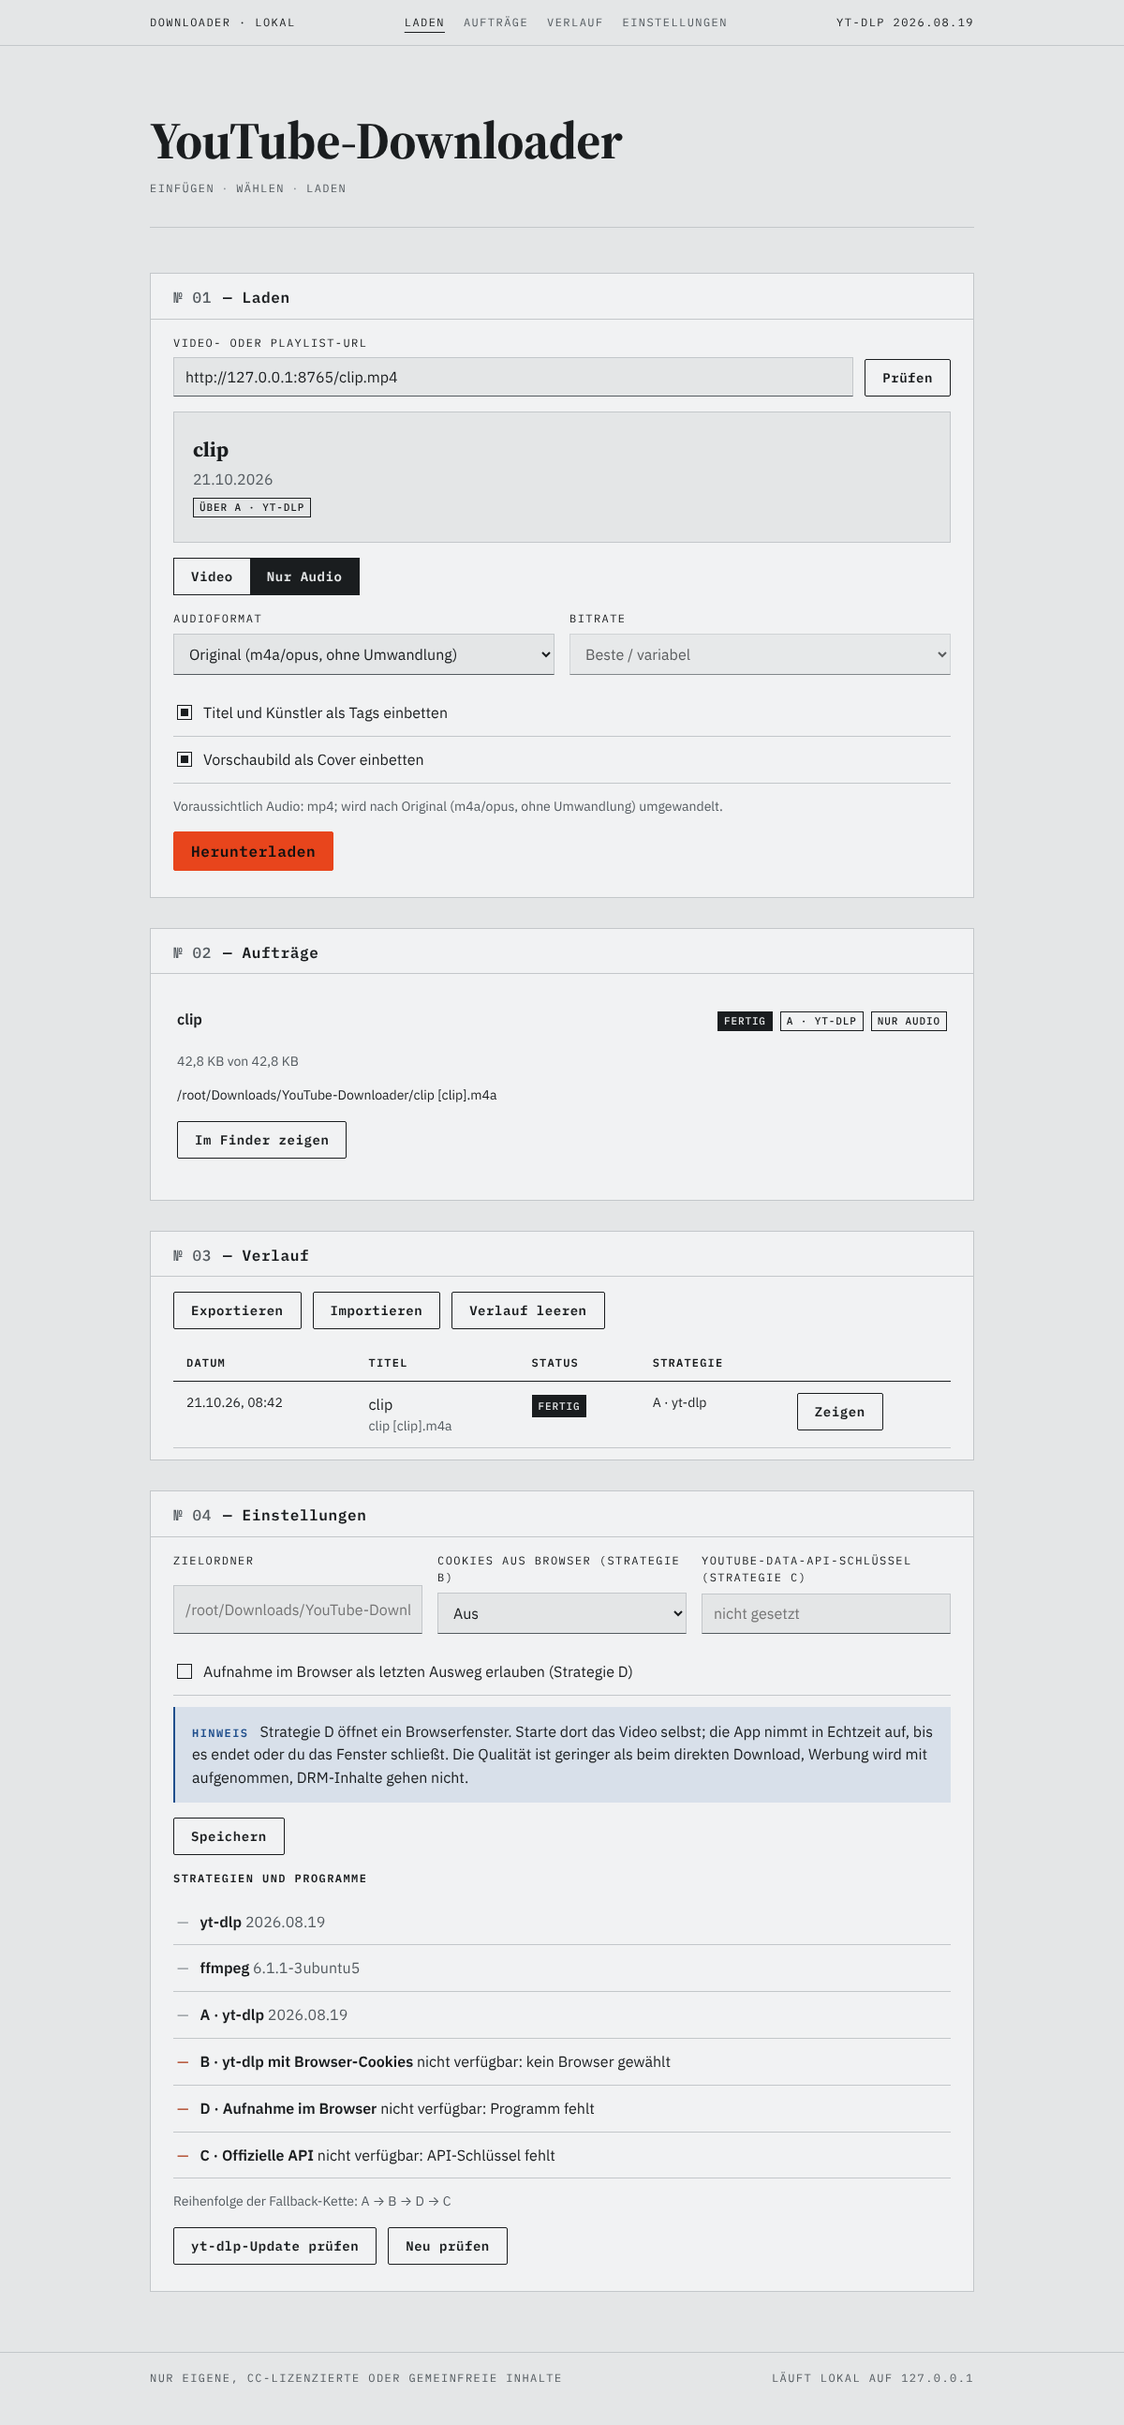
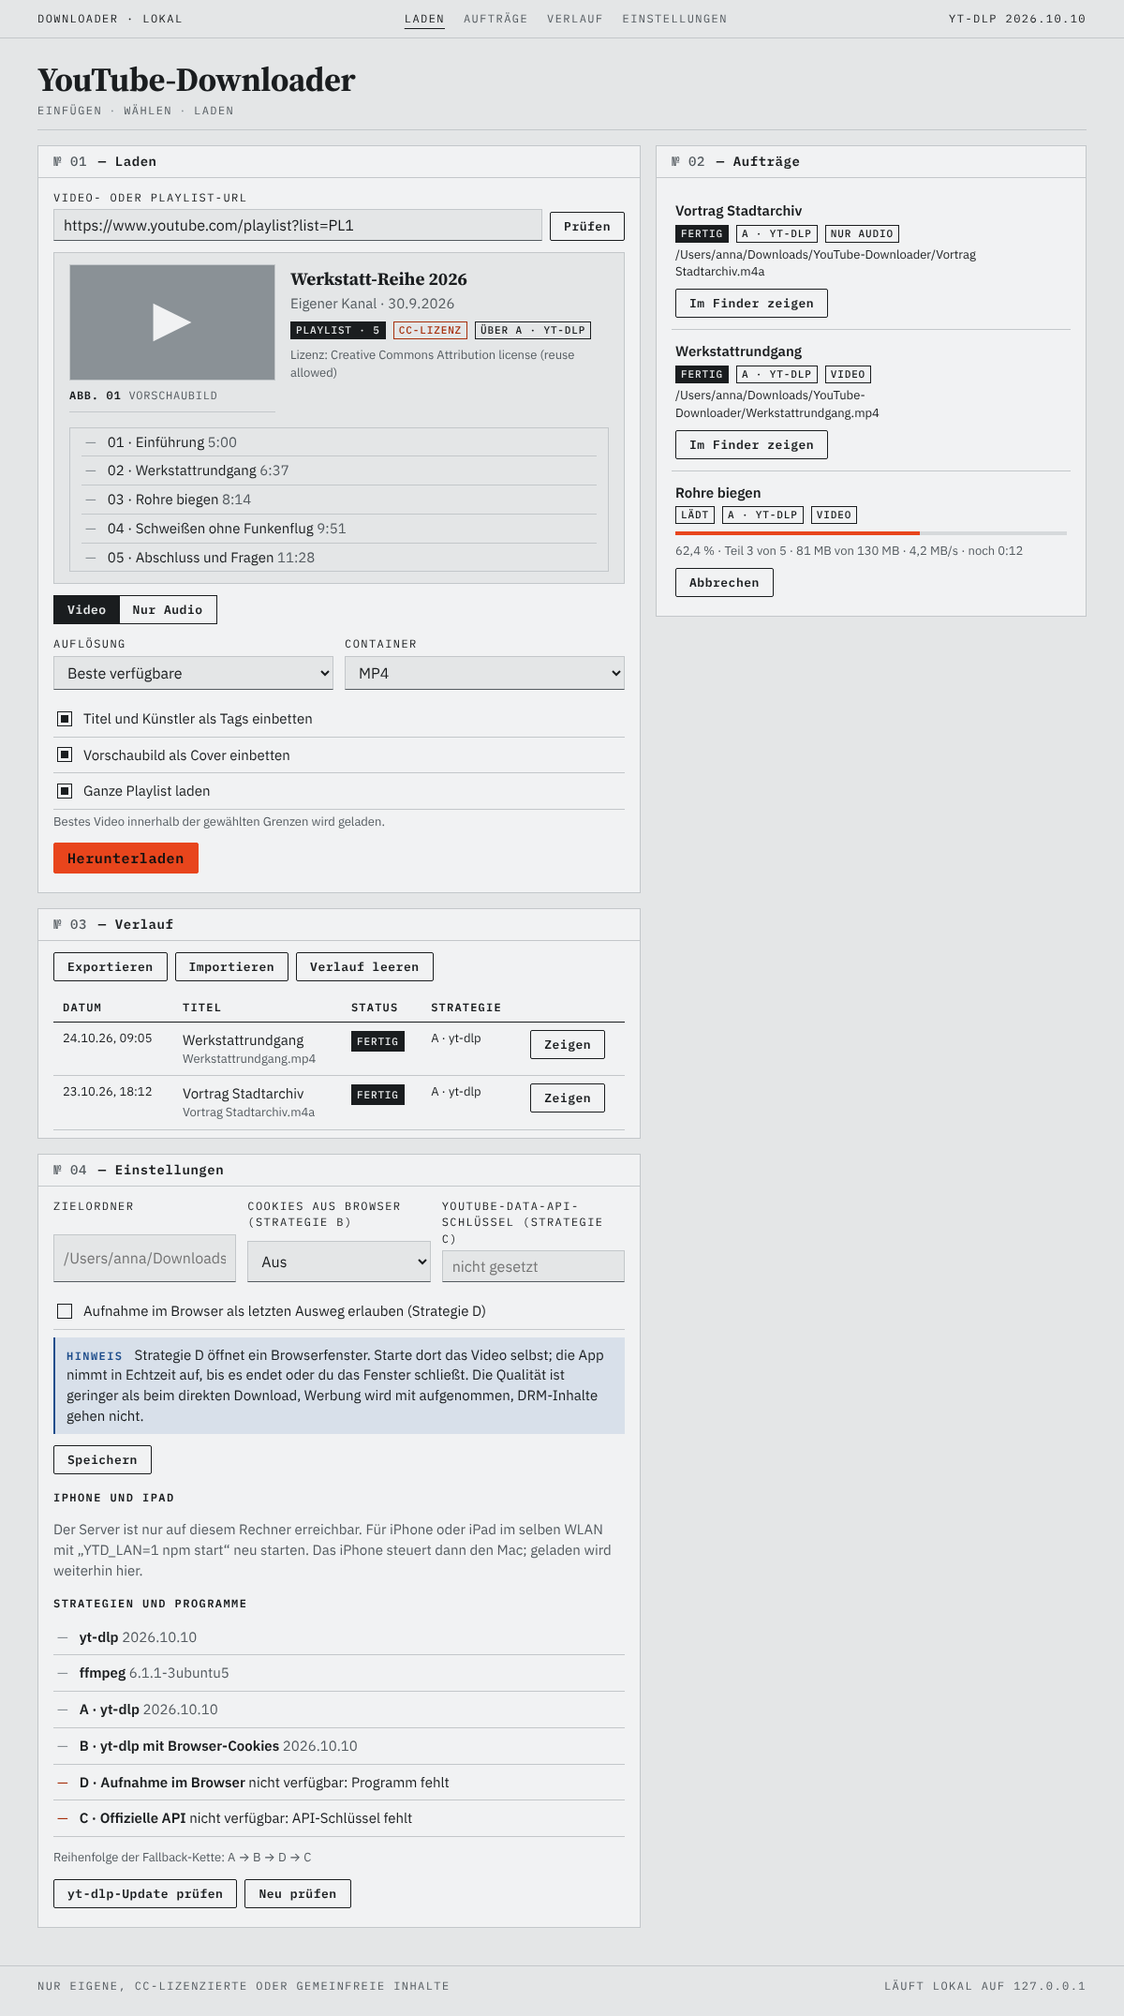
DU-Rohr-Lader-1.1.1: kompaktere Ansicht
Engere Abstände, dichtere Zeilen und Kästen auf Desktop und iPhone,
kleinerer Kopf; Touch-Ziele bleiben 44 pt. Screenshots erneuert.

Claude-Session: https://claude.ai/code/session_01JSgUaJYNFvwDmmGS4aEucJ

diff --git a/web/styles.css b/web/styles.css
@@ -24,7 +24,7 @@
 
 * { box-sizing:border-box; }
 html { background:var(--bg); }
-body { margin:0; background:var(--bg); color:var(--ink); font:16px/1.55 var(--sans); -webkit-font-smoothing:antialiased; }
+body { margin:0; background:var(--bg); color:var(--ink); font:15px/1.45 var(--sans); -webkit-font-smoothing:antialiased; }
 .wrap { max-width:var(--maxw); margin:0 auto; padding:0 var(--gutter); }
 a { color:var(--ink); text-decoration-color:var(--accent); text-decoration-thickness:2px; text-underline-offset:3px; }
 a:hover { color:var(--accent-text); }
@@ -33,24 +33,24 @@ a:hover { color:var(--accent-text); }
 code { font:14px var(--mono); background:var(--sunken); padding:1px 5px; }
 
 .runhead { position:sticky; top:0; z-index:10; background:var(--bg); border-bottom:1px solid var(--line); }
-.runhead .wrap { display:flex; justify-content:space-between; align-items:center; gap:var(--s4); min-height:48px; }
+.runhead .wrap { display:flex; justify-content:space-between; align-items:center; gap:var(--s4); min-height:40px; }
 .runhead nav { display:flex; gap:20px; flex-wrap:wrap; }
 .runhead nav a { text-decoration:none; }
 .runhead nav a { color:var(--muted); }
 .runhead nav a:hover, .runhead nav a[aria-current] { color:var(--ink); }
 .runhead nav a[aria-current] { text-decoration:underline; text-decoration-color:var(--ink); text-decoration-thickness:1px; text-underline-offset:6px; }
 
-.hero { padding:72px 0 0; }
-.hero h1 { font:700 clamp(34px,5.5vw,56px)/1.05 var(--serif); letter-spacing:-.015em; margin:0; }
-.hero .subtitle { margin:var(--s3) 0 0; color:var(--muted); }
+.hero { padding:var(--s5) 0 0; }
+.hero h1 { font:700 clamp(26px,3.6vw,36px)/1.1 var(--serif); letter-spacing:-.015em; margin:0; }
+.hero .subtitle { margin:var(--s1) 0 0; color:var(--muted); }
 .hero .subtitle .sep { color:var(--faint); padding:0 .6em; }
-.rule-heavy { border:0; border-top:1px solid var(--line); margin:var(--s6) 0 var(--s7); }
+.rule-heavy { border:0; border-top:1px solid var(--line); margin:var(--s3) 0 var(--s4); }
 
-.section { background:var(--surface); border:1px solid var(--line); padding:0 var(--s5) var(--s3); margin:0 0 var(--s6); scroll-margin-top:64px; }
-.label { display:flex; gap:var(--s3); align-items:baseline; font:600 16px/1.2 var(--mono); letter-spacing:.04em; color:var(--ink); margin:0 calc(-1 * var(--s5)) var(--s4); padding:var(--s4) var(--s5) var(--s3); border-bottom:1px solid var(--line); }
+.section { background:var(--surface); border:1px solid var(--line); padding:0 var(--s4) var(--s2); margin:0 0 var(--s4); scroll-margin-top:52px; }
+.label { display:flex; gap:var(--s3); align-items:baseline; font:600 14px/1.2 var(--mono); letter-spacing:.04em; color:var(--ink); margin:0 calc(-1 * var(--s4)) var(--s3); padding:var(--s2) var(--s4); border-bottom:1px solid var(--line); }
 .label .no { color:var(--muted); font-weight:500; }
 
-.row, .check { display:flex; gap:var(--s3); align-items:baseline; padding:var(--s3) var(--s1); border-bottom:1px solid var(--line); }
+.row, .check { display:flex; gap:var(--s3); align-items:baseline; padding:var(--s2) var(--s1); border-bottom:1px solid var(--line); }
 .row:last-child, .check:last-child { border-bottom:0; }
 .row::before { content:"—"; color:var(--faint); flex:none; }
 .row.prio::before { color:var(--accent-text); }
@@ -59,11 +59,11 @@ code { font:14px var(--mono); background:var(--sunken); padding:1px 5px; }
 .check input { appearance:none; flex:none; width:16px; height:16px; margin:0; border:1.5px solid var(--ink); background:var(--surface); border-radius:0; cursor:pointer; }
 .check input:checked { background:var(--ink); box-shadow:inset 0 0 0 3px var(--surface); }
 
-.tag { font:500 11px/1 var(--mono); letter-spacing:.08em; text-transform:uppercase; border:1px solid var(--ink); padding:4px 6px; white-space:nowrap; }
+.tag { font:500 11px/1 var(--mono); letter-spacing:.08em; text-transform:uppercase; border:1px solid var(--ink); padding:3px 5px; white-space:nowrap; }
 .tag.acc { border-color:var(--accent-text); color:var(--accent-text); }
 .tag.inv { background:var(--ink); color:var(--bg); }
 
-.note { border-left:2px solid var(--accent); background:var(--accent-tint); padding:14px 18px; margin:var(--s3) 0 var(--s4); }
+.note { border-left:2px solid var(--accent); background:var(--accent-tint); padding:var(--s2) var(--s3); margin:var(--s2) 0 var(--s3); }
 .note .cap { color:var(--accent-text); font-weight:600; margin-right:var(--s3); }
 .note.ok { border-color:var(--ok); background:var(--ok-tint); } .note.ok .cap { color:var(--ok); }
 .note.warn { border-color:var(--warn); background:var(--warn-tint); } .note.warn .cap { color:var(--warn); }
@@ -73,23 +73,23 @@ code { font:14px var(--mono); background:var(--sunken); padding:1px 5px; }
 .table-scroll { overflow-x:auto; }
 table.data { width:100%; border-collapse:collapse; background:var(--surface); }
 .section table.data th { border-bottom-width:1px; }
-table.data th { text-align:left; font:600 12px var(--mono); letter-spacing:.1em; text-transform:uppercase; border-bottom:2px solid var(--ink); padding:var(--s3) 14px; }
-table.data td { border-bottom:1px solid var(--line); padding:var(--s3) 14px; vertical-align:top; }
+table.data th { text-align:left; font:600 12px var(--mono); letter-spacing:.1em; text-transform:uppercase; border-bottom:2px solid var(--ink); padding:var(--s2) 10px; }
+table.data td { border-bottom:1px solid var(--line); padding:var(--s2) 10px; vertical-align:top; }
 table.data tbody tr:hover { background:var(--sunken); }
 
 .grid { display:grid; gap:var(--s4); grid-template-columns:repeat(auto-fit,minmax(200px,1fr)); }
-.card { background:var(--bg); border:1px solid var(--line); padding:18px 20px; }
-.card h3 { font:700 22px/1.2 var(--serif); margin:var(--s2) 0 6px; }
+.card { background:var(--bg); border:1px solid var(--line); padding:var(--s3) var(--s4); }
+.card h3 { font:700 19px/1.2 var(--serif); margin:var(--s1) 0 var(--s1); }
 .card p { margin:0; color:var(--muted); }
 
 
-.btn { display:inline-flex; align-items:center; gap:var(--s2); font:600 14px/1 var(--mono); letter-spacing:.04em; padding:var(--s3) 18px; border:1px solid var(--ink); background:transparent; color:var(--ink); cursor:pointer; text-decoration:none; border-radius:var(--r); }
+.btn { display:inline-flex; align-items:center; gap:var(--s2); font:600 13px/1 var(--mono); letter-spacing:.04em; padding:var(--s2) 14px; border:1px solid var(--ink); background:transparent; color:var(--ink); cursor:pointer; text-decoration:none; border-radius:var(--r); }
 .btn:hover { background:var(--ink); color:var(--bg); }
-.btn.primary { font-size:16px; background:var(--accent); border-color:var(--accent); color:var(--accent-ink); }
+.btn.primary { font-size:15px; background:var(--accent); border-color:var(--accent); color:var(--accent-ink); }
 .btn.primary:hover { background:var(--accent-hover); border-color:var(--accent-hover); color:var(--accent-ink); }
 .btn:disabled { opacity:.5; cursor:not-allowed; }
-.field { display:grid; gap:6px; }
-.field input, .field select { font:16px var(--sans); padding:10px var(--s3); background:var(--bg); color:var(--ink); border:1px solid var(--line); border-bottom:1px solid var(--muted); border-radius:0; min-width:0; width:100%; }
+.field { display:grid; gap:var(--s1); }
+.field input, .field select { font:16px var(--sans); padding:6px 10px; background:var(--bg); color:var(--ink); border:1px solid var(--line); border-bottom:1px solid var(--muted); border-radius:0; min-width:0; width:100%; }
 .field input:focus, .field select:focus { outline:none; border-color:var(--ink); box-shadow:inset 0 -1px 0 var(--accent); }
 
 figure { margin:0 0 var(--s4); }
@@ -100,45 +100,50 @@ pre { margin:var(--s4) 0; padding:var(--s4); background:var(--sunken); border:1p
 
 details { border-bottom:1px solid var(--line); }
 details:first-of-type { border-top:1px solid var(--line); }
-summary { list-style:none; cursor:pointer; display:flex; justify-content:space-between; gap:var(--s4); align-items:center; font:600 13px/1.3 var(--mono); letter-spacing:.08em; text-transform:uppercase; padding:14px var(--s1); }
+summary { list-style:none; cursor:pointer; display:flex; justify-content:space-between; gap:var(--s4); align-items:center; font:600 13px/1.3 var(--mono); letter-spacing:.08em; text-transform:uppercase; padding:var(--s2) var(--s1); }
 summary::-webkit-details-marker { display:none; }
 summary::after { content:"+"; font-size:20px; color:var(--accent-text); }
 details[open] summary::after { content:"−"; }
 summary:hover { background:var(--sunken); }
 details > div { padding:0 var(--s1) var(--s4); color:var(--muted); }
 
-footer { border-top:1px solid var(--line); margin-top:var(--s8); padding:18px 0 40px; color:var(--muted); }
+footer { border-top:1px solid var(--line); margin-top:var(--s5); padding:var(--s3) 0 var(--s5); color:var(--muted); }
 footer .wrap { display:flex; justify-content:space-between; flex-wrap:wrap; gap:var(--s3); }
 
-@media (max-width:600px) { .runhead nav { display:none; } .hero { padding-top:48px; } .section { padding:0 var(--s4) var(--s2); } .label { margin:0 calc(-1 * var(--s4)) var(--s4); padding:var(--s3) var(--s4); } }
+@media (max-width:600px) { .runhead nav { display:none; } .hero { padding-top:var(--s4); } .section { padding:0 var(--s3) var(--s2); } .label { margin:0 calc(-1 * var(--s3)) var(--s3); padding:var(--s2) var(--s3); } }
 
 /* ---------- App-Ergänzungen (aus vorhandenen Bausteinen abgeleitet) ---------- */
-#meta { margin-top:var(--s4); }
-#options { margin-top:var(--s4); }
-.url-form { display:grid; grid-template-columns:1fr auto; gap:var(--s3); align-items:end; }
-.form-grid { display:grid; gap:var(--s4); grid-template-columns:repeat(auto-fit,minmax(200px,1fr)); margin:var(--s4) 0; }
-.actions { display:flex; flex-wrap:wrap; gap:var(--s3); align-items:center; margin:var(--s4) 0; }
-.meta-layout { display:grid; grid-template-columns:minmax(0,280px) 1fr; gap:var(--s5); }
+#meta { margin-top:var(--s3); }
+#options { margin-top:var(--s3); }
+.url-form { display:grid; grid-template-columns:1fr auto; gap:var(--s2); align-items:end; }
+.form-grid { display:grid; gap:var(--s3); grid-template-columns:repeat(auto-fit,minmax(180px,1fr)); margin:var(--s3) 0; }
+.actions { display:flex; flex-wrap:wrap; gap:var(--s2); align-items:center; margin:var(--s3) 0; }
+.meta-layout { display:grid; grid-template-columns:minmax(0,220px) 1fr; gap:var(--s4); }
 .meta-tags { display:flex; flex-wrap:wrap; gap:var(--s2); margin:var(--s2) 0; }
 .muted { color:var(--muted); }
-.small { font-size:14px; }
+.section h3.cap { margin:var(--s4) 0 var(--s2); }
+.small { font-size:13px; }
 .break { overflow-wrap:anywhere; }
 .mode-switch { display:flex; border:1px solid var(--ink); width:max-content; }
-.mode-switch button { font:600 14px/1 var(--mono); letter-spacing:.04em; padding:var(--s3) 18px; background:transparent; color:var(--ink); border:0; cursor:pointer; }
+.mode-switch button { font:600 13px/1 var(--mono); letter-spacing:.04em; padding:var(--s2) 14px; background:transparent; color:var(--ink); border:0; cursor:pointer; }
 .mode-switch button[aria-pressed="true"] { background:var(--ink); color:var(--bg); }
 .progress { height:4px; background:var(--sunken); margin:var(--s2) 0; }
 .progress > span { display:block; height:100%; background:var(--accent); width:0; transition:width .3s; }
 .progress.indeterminate > span { width:30%; animation:slide 1.2s linear infinite; }
 @keyframes slide { from { margin-left:-30%; } to { margin-left:100%; } }
 @media (prefers-reduced-motion: reduce) { .progress.indeterminate > span { animation:none; width:100%; opacity:.4; } }
-.job { border-bottom:1px solid var(--line); padding:var(--s4) var(--s1); }
+.job { border-bottom:1px solid var(--line); padding:var(--s3) var(--s1); }
 .job:last-child { border-bottom:0; }
-.job-head { display:flex; justify-content:space-between; gap:var(--s3); flex-wrap:wrap; align-items:baseline; }
+.job p, #preview { margin:var(--s1) 0; }
+.job .actions { margin:var(--s2) 0 0; }
+.entries .row { padding:var(--s1); }
+.job-head { display:flex; justify-content:space-between; gap:var(--s1) var(--s3); flex-wrap:wrap; align-items:baseline; }
+.job-head .meta-tags { margin:0; }
 .job-title { font-weight:600; overflow-wrap:anywhere; }
-.entries { max-height:260px; overflow:auto; background:var(--bg); border:1px solid var(--line); padding:0 var(--s3); }
-dialog { border:1px solid var(--line); background:var(--surface); color:var(--ink); max-width:min(560px, calc(100vw - 32px)); padding:var(--s5); }
+.entries { max-height:220px; overflow:auto; background:var(--bg); border:1px solid var(--line); padding:0 var(--s3); }
+dialog { border:1px solid var(--line); background:var(--surface); color:var(--ink); max-width:min(560px, calc(100vw - 32px)); padding:var(--s4); }
 dialog::backdrop { background:rgb(22 24 26 / .6); }
-dialog h2 { font:700 28px/1.2 var(--serif); margin:0 0 var(--s3); }
-.empty { color:var(--muted); padding:var(--s3) var(--s1); }
+dialog h2 { font:700 24px/1.2 var(--serif); margin:0 0 var(--s2); }
+.empty { color:var(--muted); padding:var(--s2) var(--s1); margin:0; }
 [hidden] { display:none !important; }
 @media (max-width:600px) { .url-form, .meta-layout { grid-template-columns:1fr; } }

diff --git a/web/layout.css b/web/layout.css
@@ -7,11 +7,11 @@ body { -webkit-tap-highlight-color:transparent; }
 /* ---------- iOS: Notch, Dynamic Island und Home-Indikator ---------- */
 .wrap { padding-left:max(var(--gutter), env(safe-area-inset-left)); padding-right:max(var(--gutter), env(safe-area-inset-right)); }
 .runhead { padding-top:env(safe-area-inset-top); }
-footer { padding-bottom:calc(40px + env(safe-area-inset-bottom)); }
+footer { padding-bottom:calc(var(--s5) + env(safe-area-inset-bottom)); }
 
 /* ---------- Kopplung iPhone (QR-Code) ---------- */
-.pairing { display:grid; grid-template-columns:minmax(140px,200px) 1fr; gap:var(--s5); align-items:start; margin:var(--s3) 0 var(--s4); }
-.pairing p { margin:0 0 var(--s3); }
+.pairing { display:grid; grid-template-columns:minmax(120px,160px) 1fr; gap:var(--s4); align-items:start; margin:var(--s2) 0 var(--s3); }
+.pairing p { margin:0 0 var(--s2); }
 .qr svg { display:block; width:100%; height:auto; border:1px solid var(--line); }
 
 body.dropping #laden { outline:2px dashed var(--accent); outline-offset:4px; }
@@ -21,7 +21,7 @@ body.dropping #laden { outline:2px dashed var(--accent); outline-offset:4px; }
   :root { --maxw-wide:1360px; }
   .runhead .wrap, main.wrap, footer .wrap { max-width:var(--maxw-wide); }
   main.wrap {
-    display:grid; align-items:start; column-gap:var(--s6);
+    display:grid; align-items:start; column-gap:var(--s4);
     grid-template-columns:minmax(0,7fr) minmax(340px,5fr);
     grid-template-areas:"hero hero" "rule rule" "note note" "laden jobs" "verlauf jobs" "einstellungen jobs";
   }
@@ -29,10 +29,10 @@ body.dropping #laden { outline:2px dashed var(--accent); outline-offset:4px; }
   main > .rule-heavy { grid-area:rule; }
   main > #global-note { grid-area:note; }
   main > #laden { grid-area:laden; }
-  main > #auftraege { grid-area:jobs; position:sticky; top:calc(64px + env(safe-area-inset-top)); max-height:calc(100vh - 88px); overflow:auto; overscroll-behavior:contain; }
+  main > #auftraege { grid-area:jobs; position:sticky; top:calc(52px + env(safe-area-inset-top)); max-height:calc(100vh - 68px); overflow:auto; overscroll-behavior:contain; }
   main > #verlauf { grid-area:verlauf; }
   main > #einstellungen { grid-area:einstellungen; }
-  #auftraege .job-head { flex-direction:column; gap:var(--s2); }
+  #auftraege .job-head { flex-direction:column; gap:var(--s1); }
 }
 
 /* ---------- Telefon: Abschnitte als Tab-Leiste unten, Daumen-Bedienung ---------- */
@@ -42,20 +42,20 @@ body.dropping #laden { outline:2px dashed var(--accent); outline-offset:4px; }
     background:var(--surface); border-top:1px solid var(--line);
     padding:0 env(safe-area-inset-right) env(safe-area-inset-bottom) env(safe-area-inset-left);
   }
-  .runhead nav a { flex:1 1 0; min-width:0; display:flex; align-items:center; justify-content:center; min-height:52px; font-size:10px; letter-spacing:.04em; text-underline-offset:4px; }
-  body { padding-bottom:calc(52px + env(safe-area-inset-bottom)); }
-  .section { scroll-margin-top:calc(56px + env(safe-area-inset-top)); }
+  .runhead nav a { flex:1 1 0; min-width:0; display:flex; align-items:center; justify-content:center; min-height:48px; font-size:10px; letter-spacing:.04em; text-underline-offset:4px; }
+  body { padding-bottom:calc(48px + env(safe-area-inset-bottom)); }
+  .section { scroll-margin-top:calc(48px + env(safe-area-inset-top)); }
   .mode-switch { width:100%; }
   .mode-switch button { flex:1 1 0; }
-  #options .actions .btn, #download-btn { width:100%; justify-content:center; }
+  #options .actions .btn, #download-btn, #probe-btn { width:100%; justify-content:center; }
   .pairing { grid-template-columns:1fr; }
-  .qr { max-width:240px; }
+  .qr { max-width:200px; }
 
   /* Verlauf als Karten statt breiter Tabelle */
   #verlauf .table-scroll { overflow:visible; }
   #verlauf table.data, #verlauf table.data tbody { display:block; background:none; }
   #verlauf table.data thead { display:none; }
-  #verlauf table.data tr { display:grid; grid-template-columns:1fr auto; gap:var(--s1) var(--s3); align-items:center; padding:var(--s3) 0; border-bottom:1px solid var(--line); }
+  #verlauf table.data tr { display:grid; grid-template-columns:1fr auto; gap:var(--s1) var(--s3); align-items:center; padding:var(--s2) 0; border-bottom:1px solid var(--line); }
   #verlauf table.data td { display:block; border:0; padding:0; }
   #verlauf table.data td:nth-child(1) { grid-area:1 / 1; color:var(--muted); }
   #verlauf table.data td:nth-child(3) { grid-area:1 / 2; justify-self:end; }
@@ -75,6 +75,6 @@ body.dropping #laden { outline:2px dashed var(--accent); outline-offset:4px; }
 
 /* ---------- Als App vom Home-Bildschirm gestartet ---------- */
 @media (display-mode:standalone) {
-  .hero { padding-top:var(--s5); }
+  .hero { padding-top:var(--s3); }
   body { overscroll-behavior-y:none; }
 }

diff --git a/CHANGELOG.md b/CHANGELOG.md
@@ -10,6 +10,13 @@ Alle Neuerungen landen in einer neuen Version. Versionen heißen `DU-Rohr-Lader-
 Tag und Release legt `.github/workflows/release.yml` beim Merge nach `main` automatisch an,
 sobald `package.json` eine Version trägt, die es noch nicht als Tag gibt.
 
+## DU-Rohr-Lader-1.1.1 – 2026-10-24
+
+### Geändert
+- Kompaktere Ansicht auf Desktop und iPhone: kleinerer Kopf, engere Abstände zwischen und in den Kästen, dichtere Zeilen, Tabellen, Knöpfe und Eingabefelder. Eine Seite mit Playlist, Aufträgen und Einstellungen ist rund ein Drittel kürzer. Touch-Ziele bleiben mindestens 44 pt groß.
+- „Prüfen“ steht auf dem Telefon mittig im Knopf wie „Herunterladen“.
+- Screenshots in `docs/screenshots` erneuert.
+
 ## DU-Rohr-Lader-1.0.1 – 2026-10-21
 
 ### Neu
